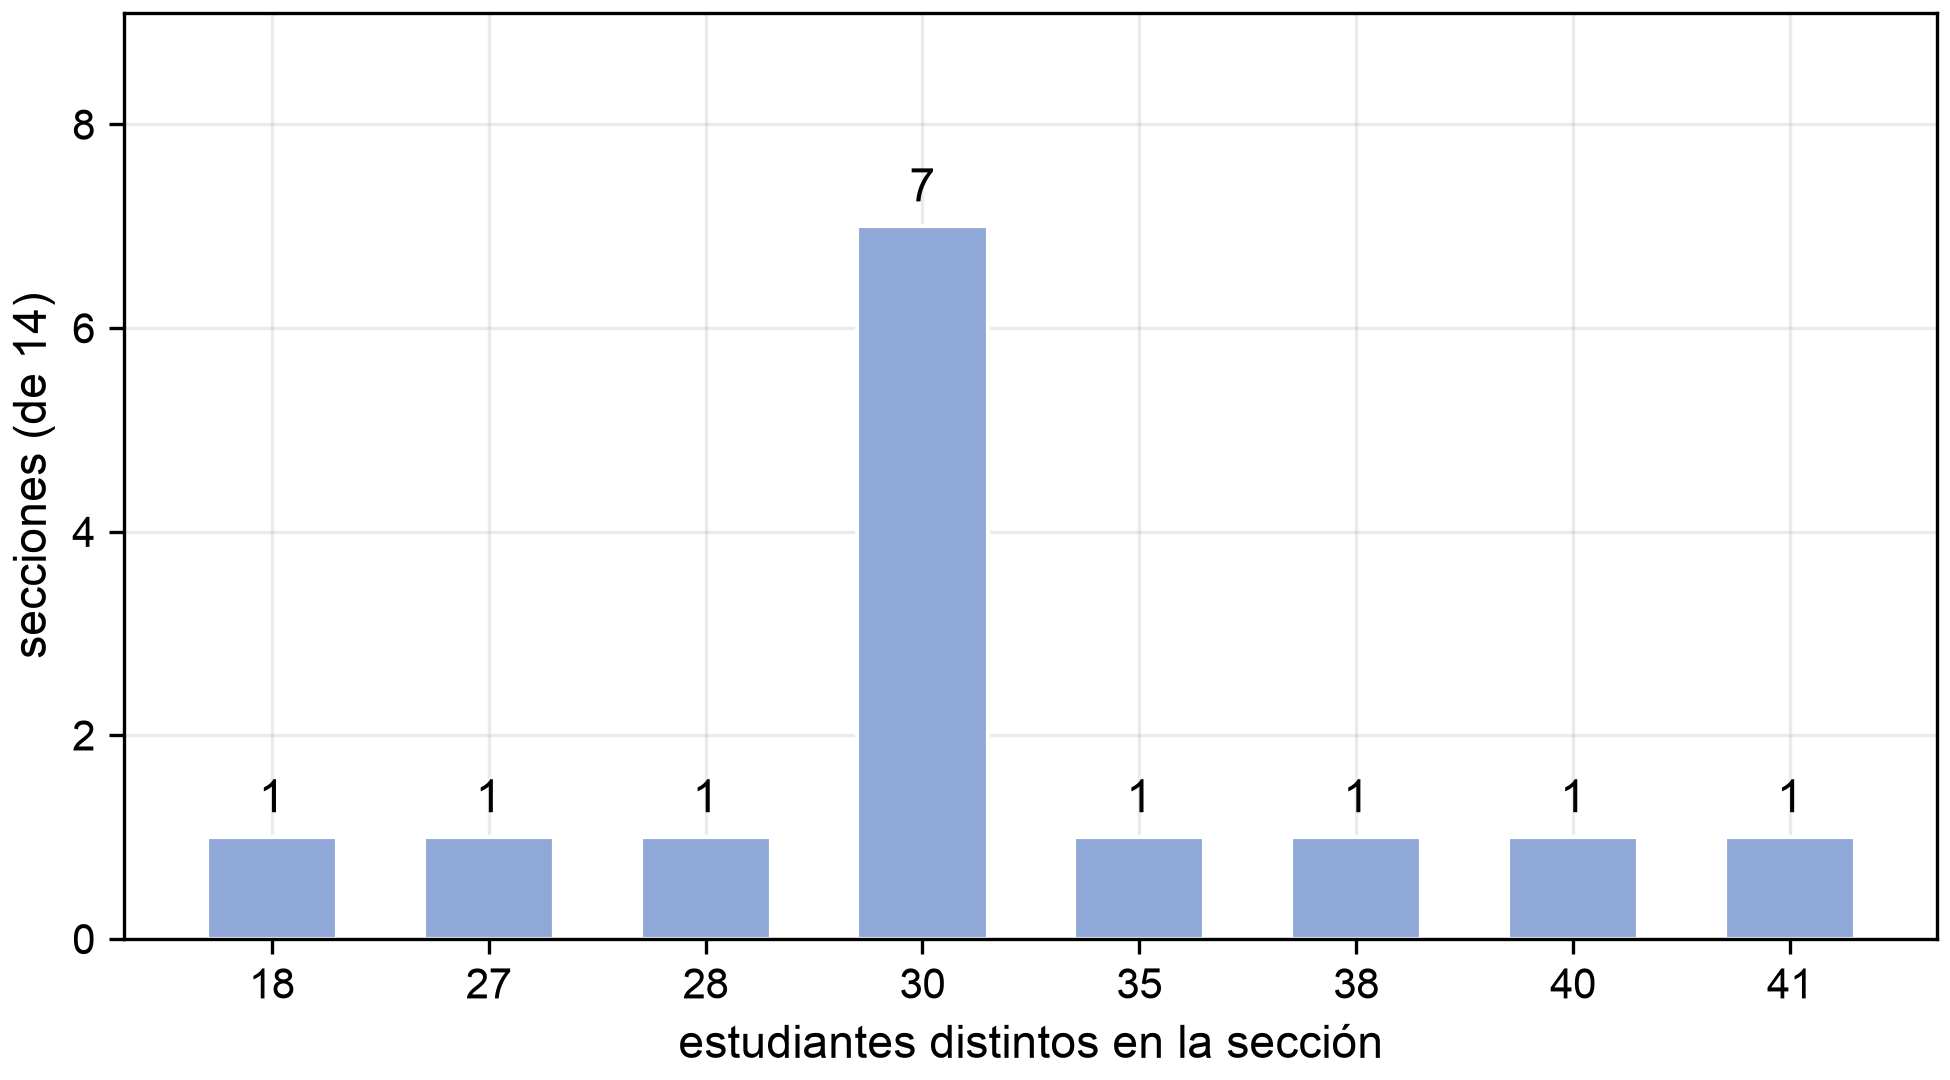
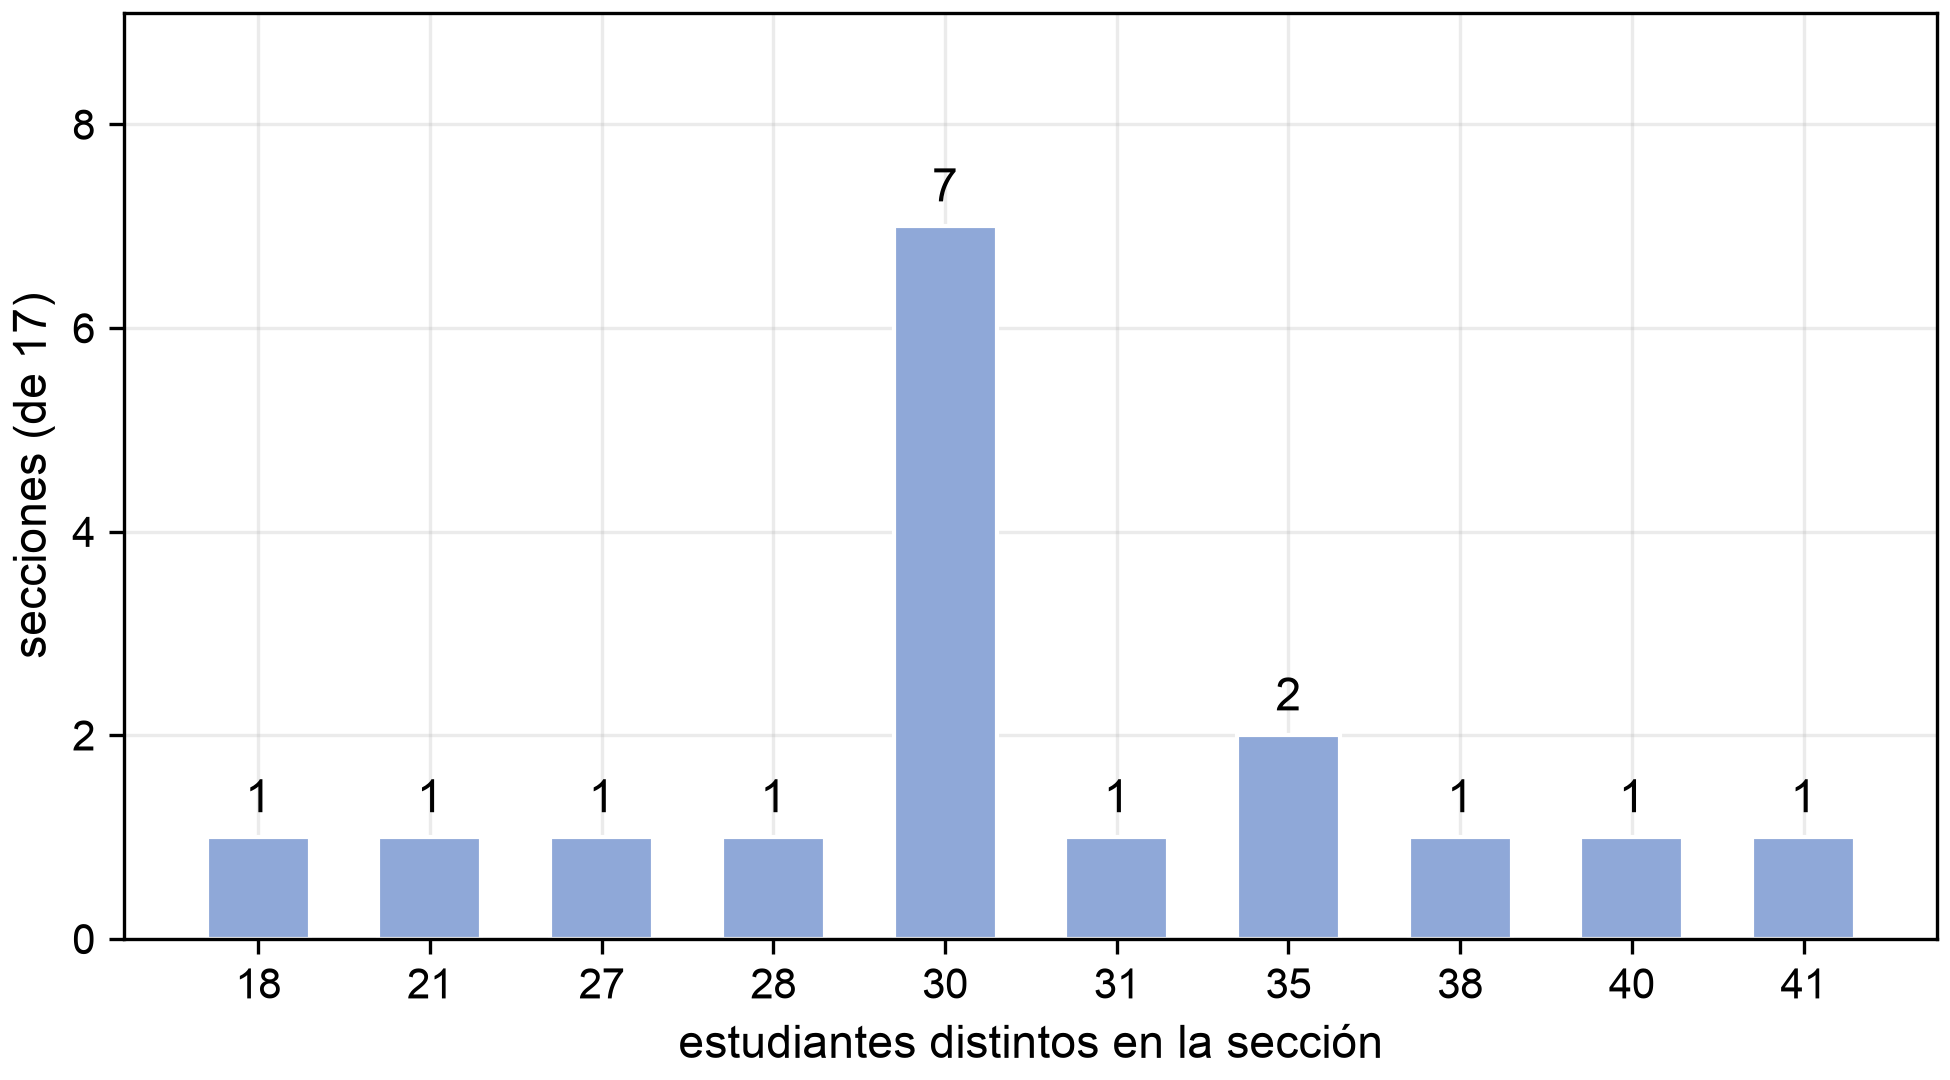
good

diff --git a/RedBayesiana/exploracion_inicial/figura_tamano_grupo_exploracion.py b/RedBayesiana/exploracion_inicial/figura_tamano_grupo_exploracion.py
@@ -24,14 +24,14 @@ AZUL = "#8fa8d8"
 df = pd.concat([pd.read_csv(f) for f in glob.glob(str(RAIZ / "Datos Tesis Downstream" / "**" / "*.csv"), recursive=True)],
                ignore_index=True)
 tam_sec = df.groupby(["materia", "trimestre", "seccion"])["estudiante_id"].nunique()
-assert len(tam_sec) == 14
+assert len(tam_sec) == 17
 
 conteo = tam_sec.value_counts().sort_index()
-print("Tamaños de sección observados (n=14 secciones):")
+print(f"Tamaños de sección observados (n={len(tam_sec)} secciones):")
 print(conteo.to_dict())
 peq, med, gra = (tam_sec < 30).sum(), (tam_sec == 30).sum(), (tam_sec > 30).sum()
 print(f"pequeño(<30)={peq}  igual a 30={med}  grande(>30)={gra}")
-assert (peq, med, gra) == (3, 7, 4)
+assert (peq, med, gra) == (4, 7, 6)
 
 plt.rcParams["font.family"] = "Arial"
 plt.rcParams["axes.grid"] = True
@@ -46,7 +46,7 @@ ax.set_ylim(0, conteo.values.max() * 1.3)
 for i, c in enumerate(conteo.values):
     ax.text(i, c + 0.15, str(c), ha="center", va="bottom", fontsize=11)
 ax.set_xlabel("estudiantes distintos en la sección", fontsize=11)
-ax.set_ylabel("secciones (de 14)", fontsize=11)
+ax.set_ylabel(f"secciones (de {len(tam_sec)})", fontsize=11)
 ax.tick_params(labelsize=10)
 
 destino = AQUI / "figura_tamano_grupo_exploracion.png"
